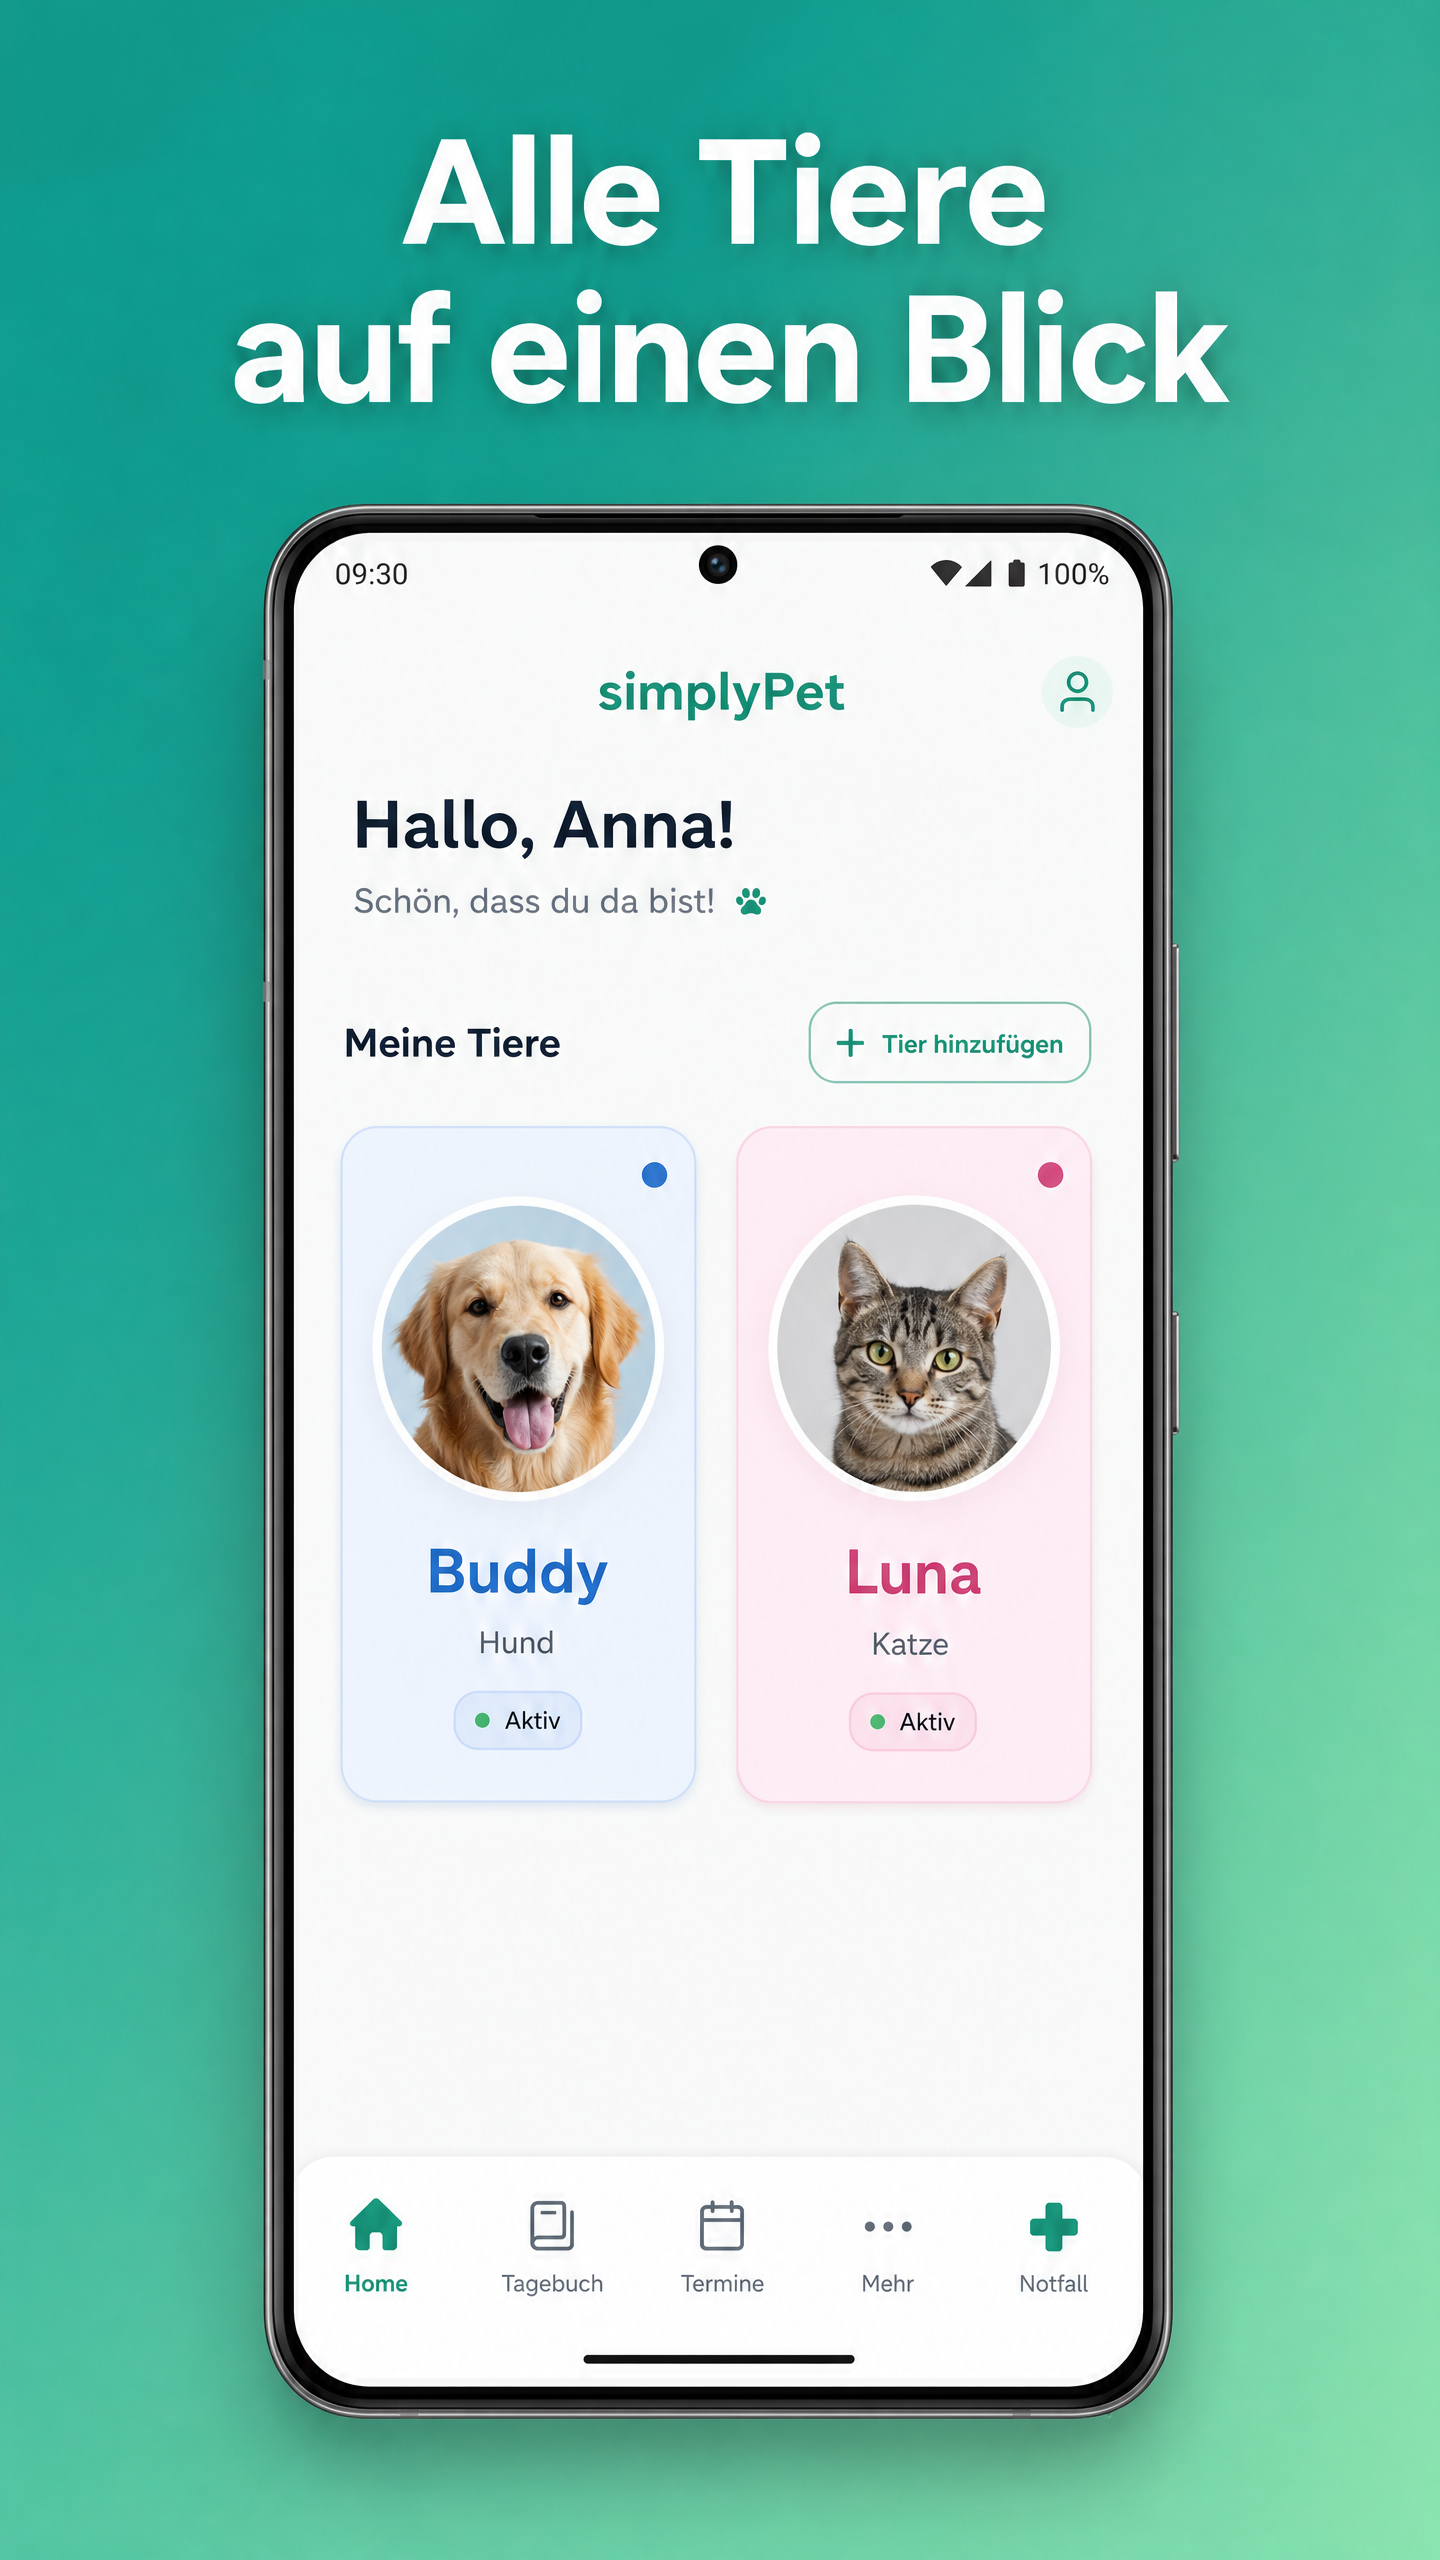
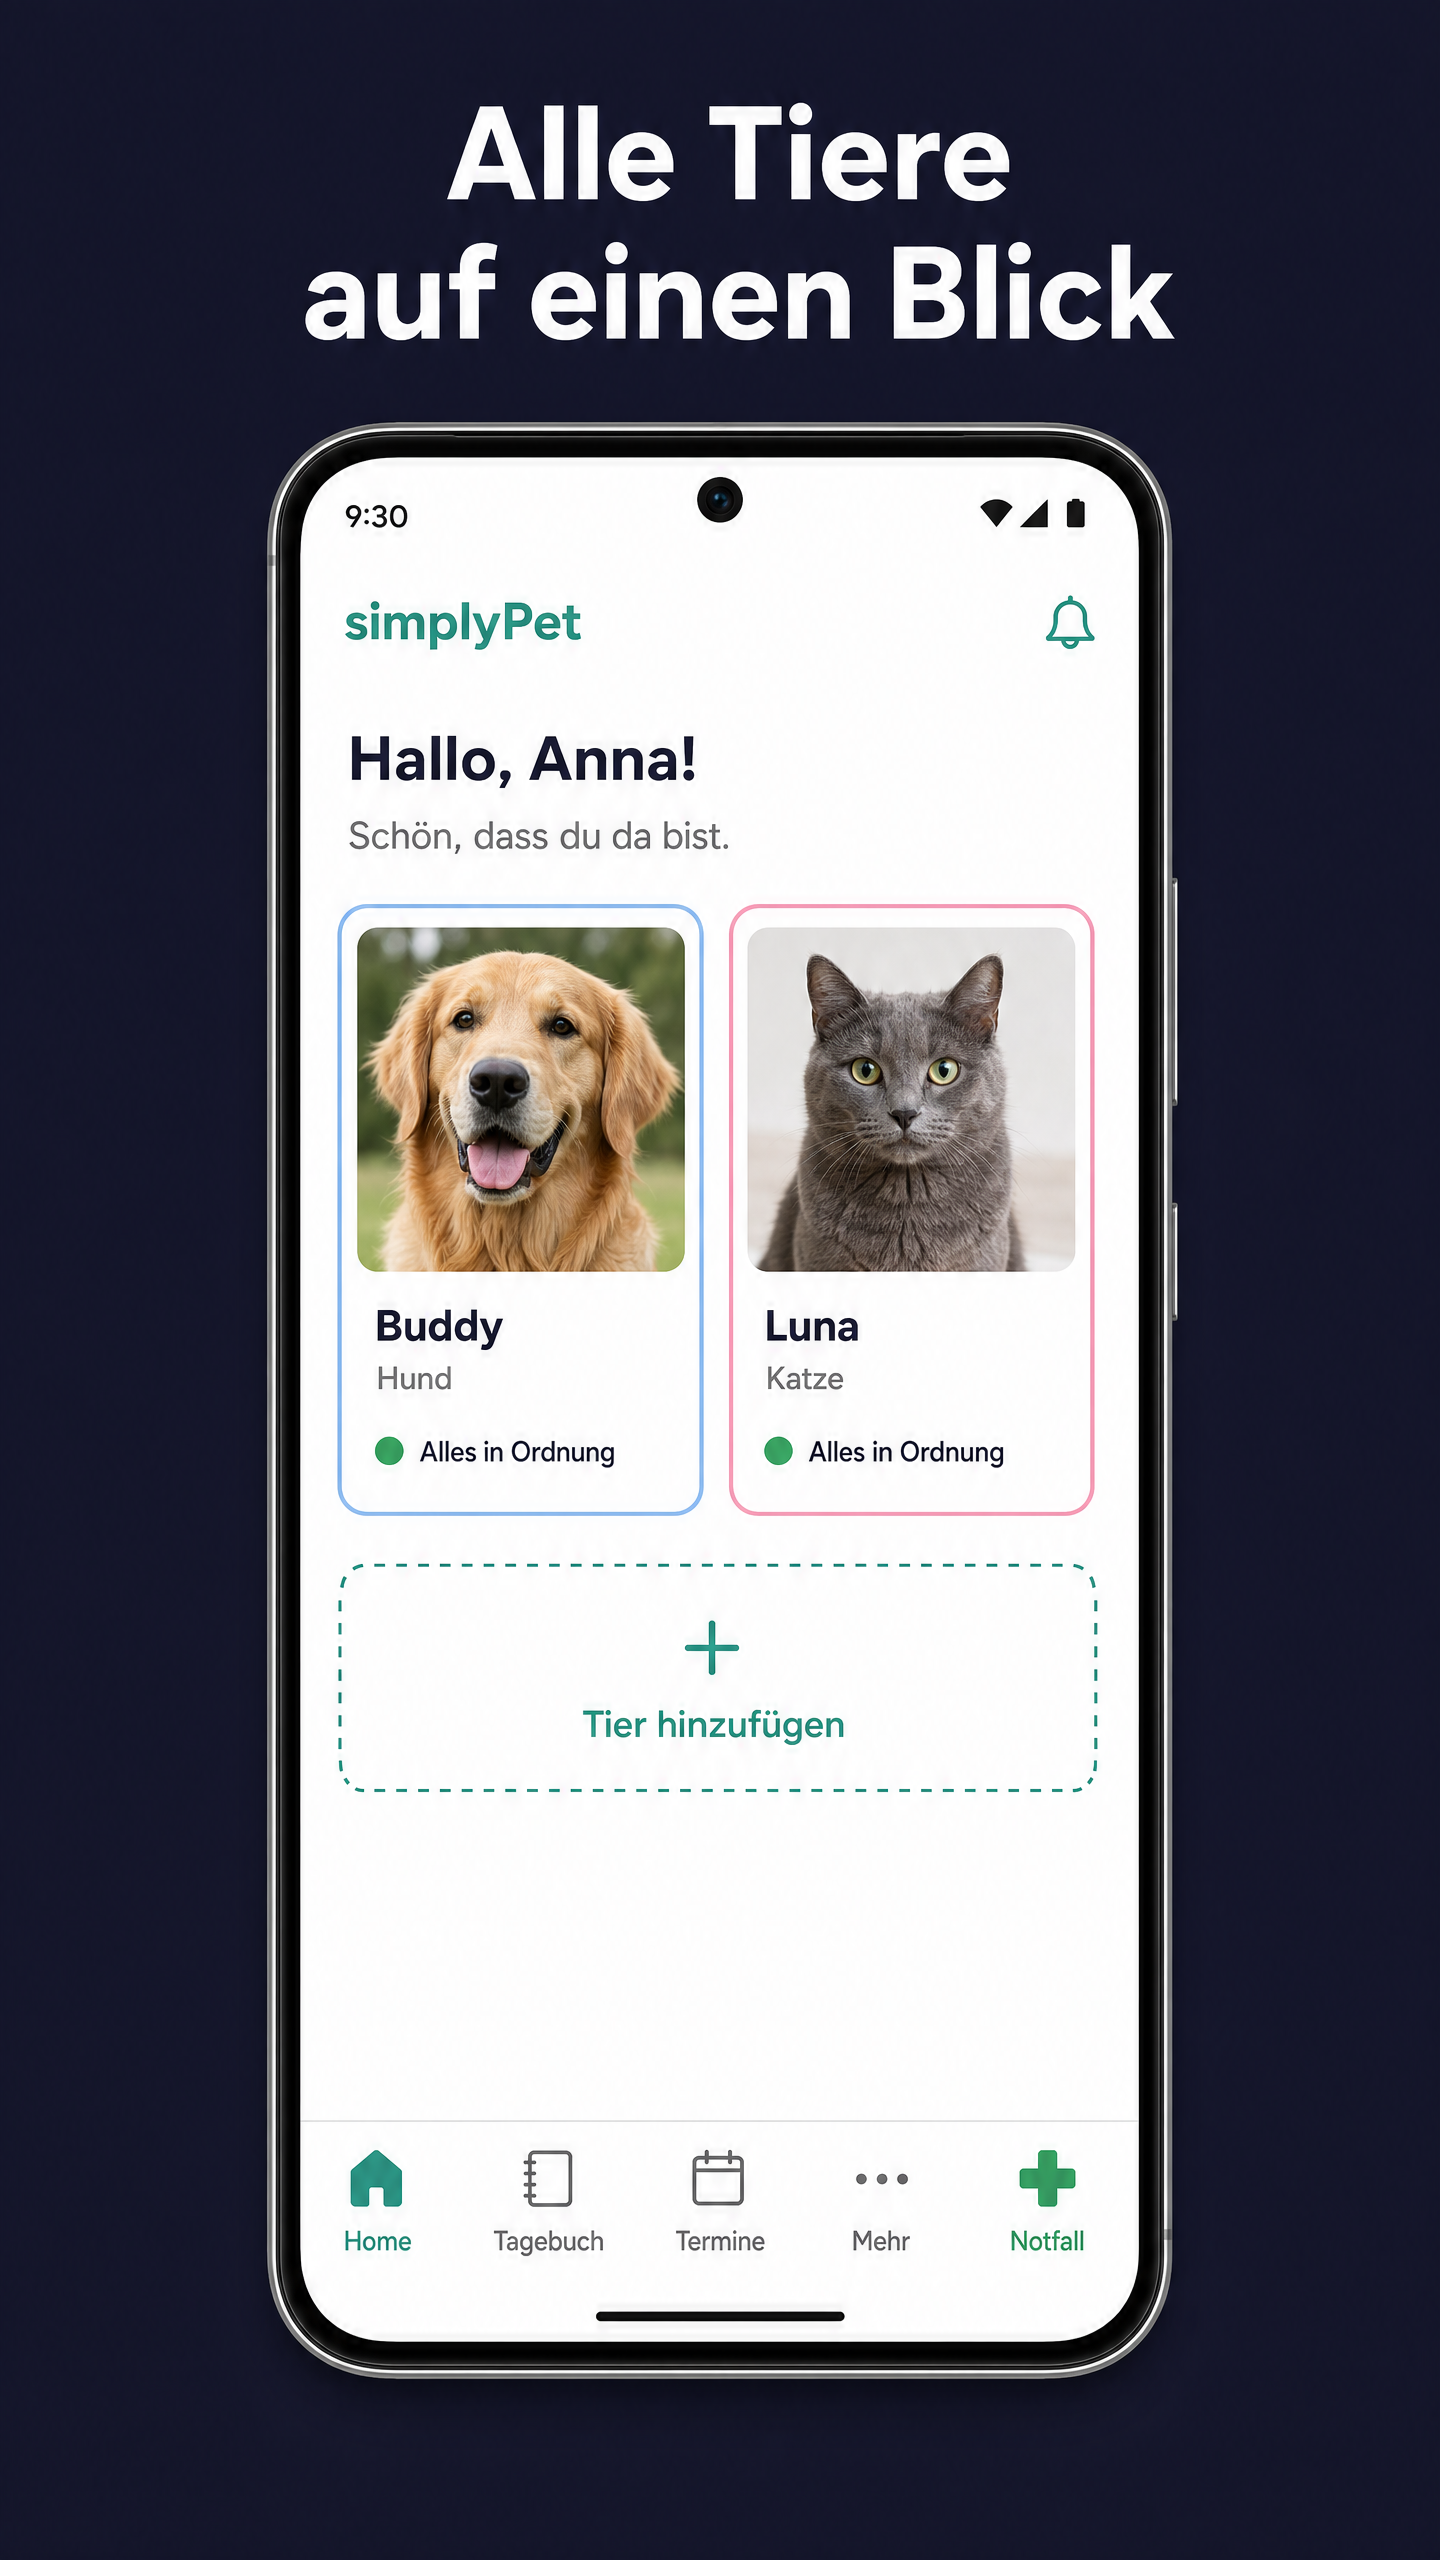
Screenshots komplett neu: einheitlich dunkler Außen-BG (#1A1A2E), weißer App-BG innen, Farbpalette dokumentiert

diff --git a/FARBPALETTE.md b/FARBPALETTE.md
@@ -1,0 +1,26 @@
+# simplyPet – Offizielle Farbpalette
+
+## App-Farben (In-App UI)
+
+| Bezeichnung | Hex-Code | Verwendung |
+|:---|:---|:---|
+| **Primary (Teal-Grün)** | `#2E9E83` | Buttons, aktive Tabs, Akzente, Header |
+| **Primary Light** | `#4DB89A` | Gradient-Ende, Hover-States, Karten-Akzente |
+| **Primary Dark** | `#1F7A64` | Pressed-States, Schatten |
+| **Background** | `#FFFFFF` | App-Hintergrund |
+| **Surface/Card** | `#F8F9FA` | Karten, Eingabefelder |
+| **Text Primary** | `#1A1A2E` | Haupttext |
+| **Text Secondary** | `#6B7280` | Untertitel, Hinweise |
+| **Error/Überfällig** | `#DC2626` | Überfällig-Badges, Fehlermeldungen |
+| **Success** | `#16A34A` | Bestätigungen, aktive Status |
+
+## Store-Screenshot Hintergrund
+
+| Bezeichnung | Hex-Code | Verwendung |
+|:---|:---|:---|
+| **Screenshot-BG** | `#1A1A2E` | Einheitlicher dunkler Hintergrund für alle Store-Screenshots |
+
+## Notizen
+
+- Die App-Farbe `#2E9E83` (Teal-Grün) ist die Markenfarbe und darf NICHT als Screenshot-Hintergrund verwendet werden, damit die App-UI sich klar davon abhebt.
+- Der dunkle Hintergrund `#1A1A2E` sorgt dafür, dass die hellen App-Screens und das Teal-Grün der UI maximal hervorstechen.
